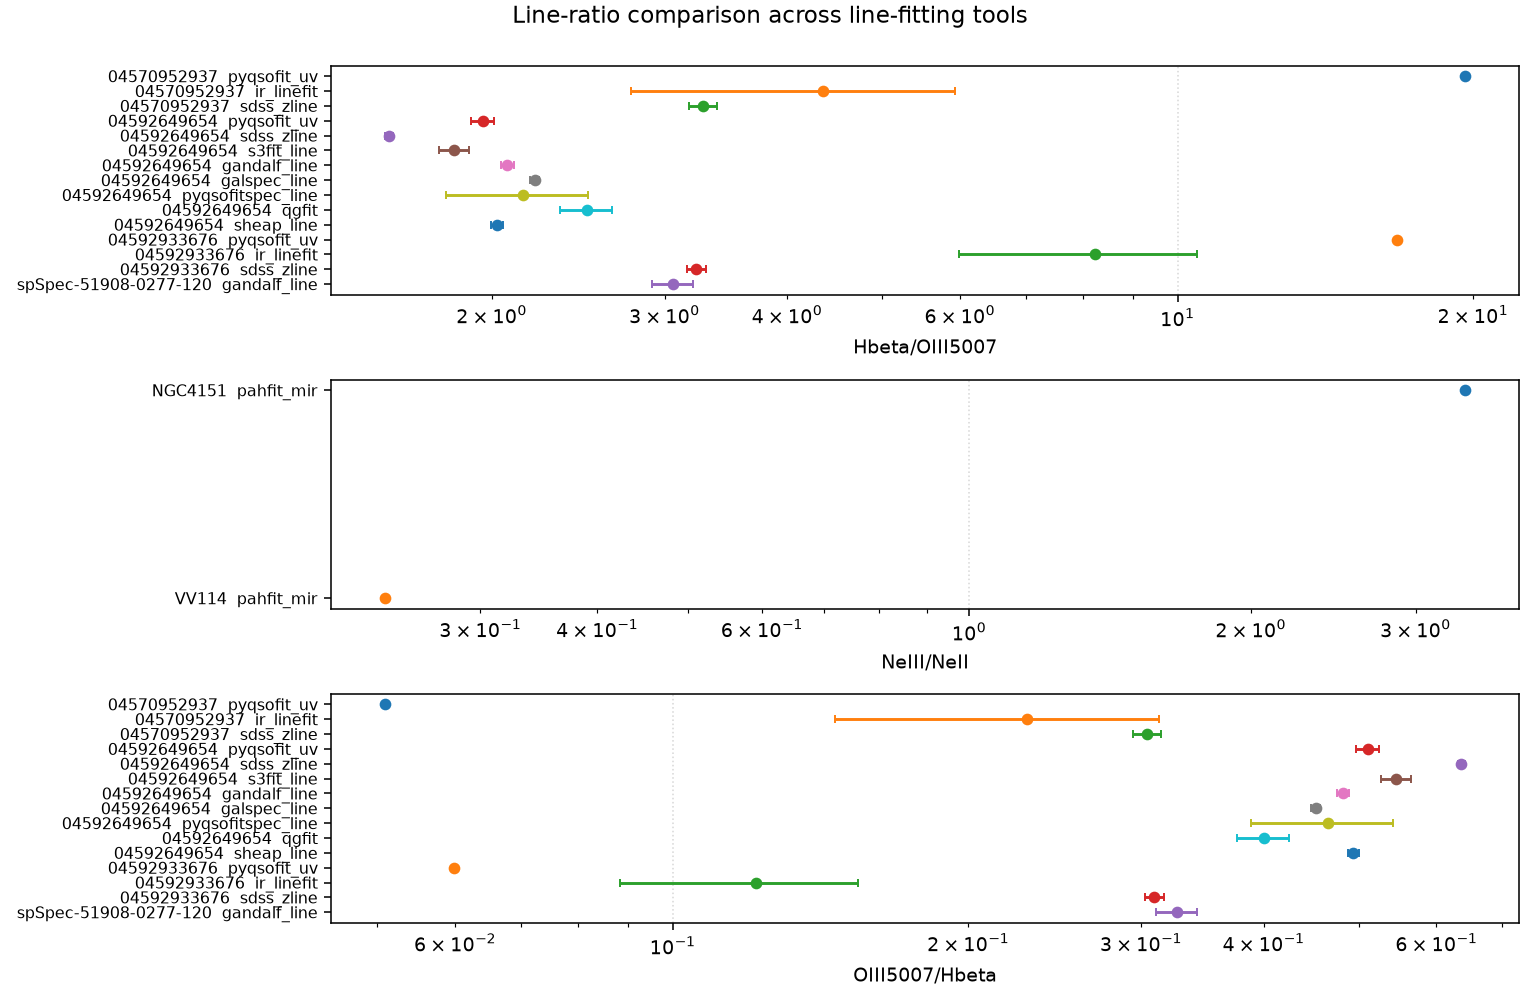
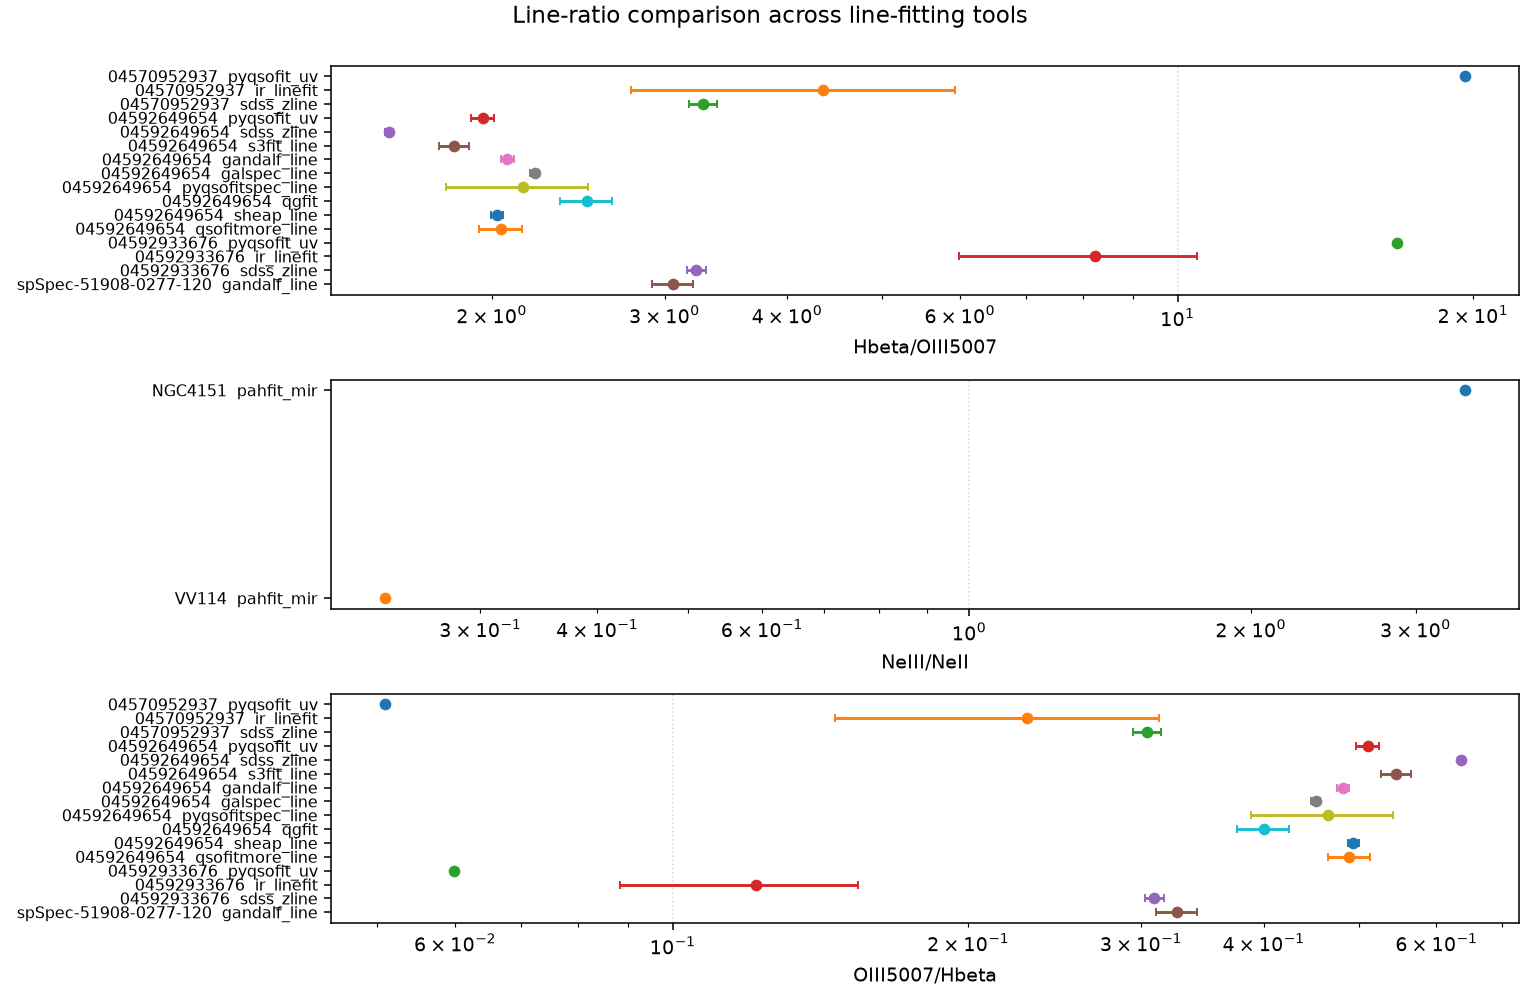
Include QSOFITMORE in cross-tool line statistics

diff --git a/pipeline/compare_line_tools.py b/pipeline/compare_line_tools.py
@@ -128,8 +128,8 @@ def read_standard(path: Path, source: str, tool: str, rows):
                         return _f(r[key])
                 return None
 
-            flux = pick("flux", "flux_1e17", "flux_int_erg_s_cm2", "flux_observed")
-            err = pick("flux_err", "flux_err_1e17", "flux_int_err_w_m2", "flux_int_err_erg_s_cm2", "flux_error")
+            flux = pick("flux", "flux_1e17", "area_1e17", "flux_int_erg_s_cm2", "flux_observed")
+            err = pick("flux_err", "flux_err_1e17", "area_err_1e17", "flux_int_err_w_m2", "flux_int_err_erg_s_cm2", "flux_error")
             fwhm = pick("fwhm_kms", "fwhm", "sigma_kms")
             add(rows, source, tool, r.get("line") or r.get("name"),
                 r.get("component") or r.get("comp") or "total",
@@ -204,6 +204,7 @@ def load():
             "pyqsofitspec_line": ("pyqsofitspec_lines.csv",),
             "qgfit": ("qgfit_lines.csv",),
             "sheap_line": ("sheap_lines.csv",),
+            "qsofitmore_line": ("qsofitmore_lines.csv",),
             "pahfit_mir": ("pahfit_lines.csv",),
         }.items():
             # A tool may publish its own production gate.  Do not let a

diff --git a/docs/STATISTICS.md b/docs/STATISTICS.md
@@ -21,7 +21,7 @@ Outputs:
 | FIR recovery | four synthetic lines | recovered/truth median and bootstrap 16–84 % CI | median 0.983 and CI 0.941–1.064; OI/OIII/CII near truth, NII 347±67 vs 300. |
 | Cross-band consistency | 13 real+synthetic ratios | fraction within broad priors; binomial test vs 0.5 | The 0.5 null is only a reference, not a physical model; priors are broad. |
 | PAHFIT stability | thirteen segments/fits | rms_rel + quality flags | 11/13 numerically stable; **all production fits are flagged/systematics-limited**. PDS short/long/both 0.0088/0.017/0.038; NGC 4151 0.031; VV114 0.195 (hot-dust mismatch); NGC 253 0.25 (gaps). Legacy NGC 253 tails remain unstable at 0.71/11.5. |
-| Cross-tool line ratios | SDSS ZLINE + PyQSOFit, PyQSOFitSpec, S3Fit, GANDALF, GalSpec, QGfit, SHEAP, PAHFIT | per-source median, 1000-sample bootstrap CI, log scatter | 04592649654 Hβ/[O III] 5007: ZLINE **1.57**, fitters **1.83–2.50**; eight-entry median **2.05**, 0.13 dex. PyQSOFit/S3Fit/GANDALF alone agree at 0.05 dex. |
+| Cross-tool line ratios | SDSS ZLINE + PyQSOFit, PyQSOFitSpec, S3Fit, GANDALF, GalSpec, QGfit, SHEAP, PAHFIT | per-source median, 1000-sample bootstrap CI, log scatter | 04592649654 Hβ/[O III] 5007: ZLINE **1.57**, fitters **1.83–2.50**; eight-entry median **2.04**, 0.12 dex. PyQSOFit/S3Fit/GANDALF alone agree at 0.05 dex. |
 
 The comparison figure is **not** a replacement for the per-object fit figures;
 it is a compact summary of bias, scatter, recovery and stability.
